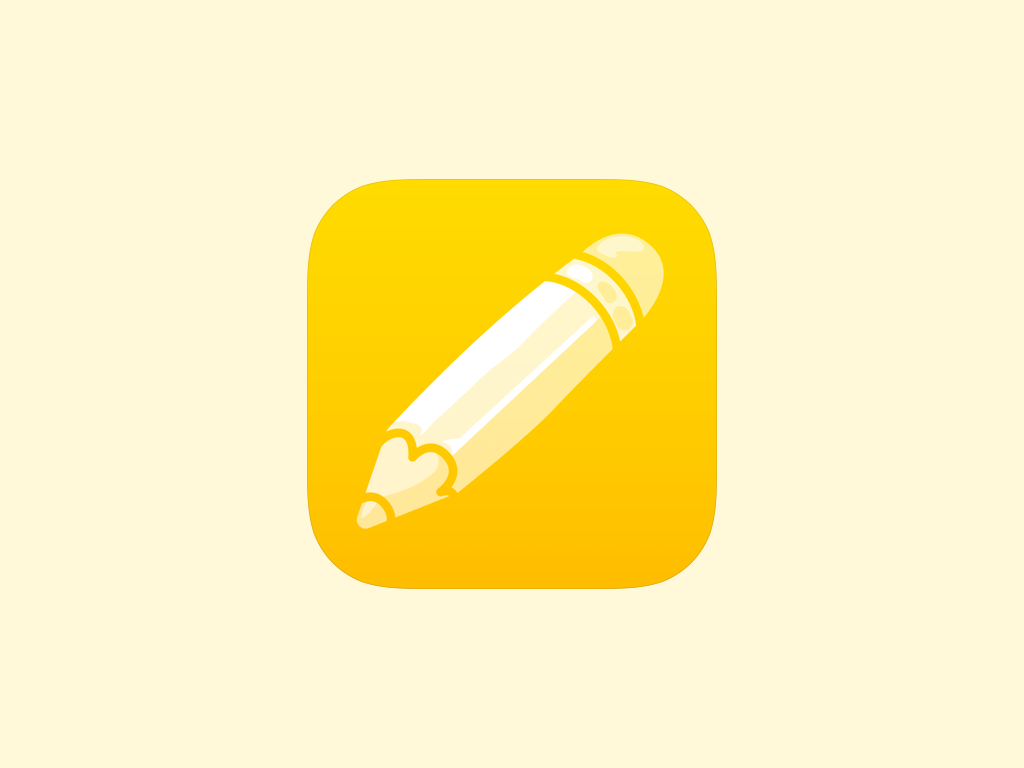
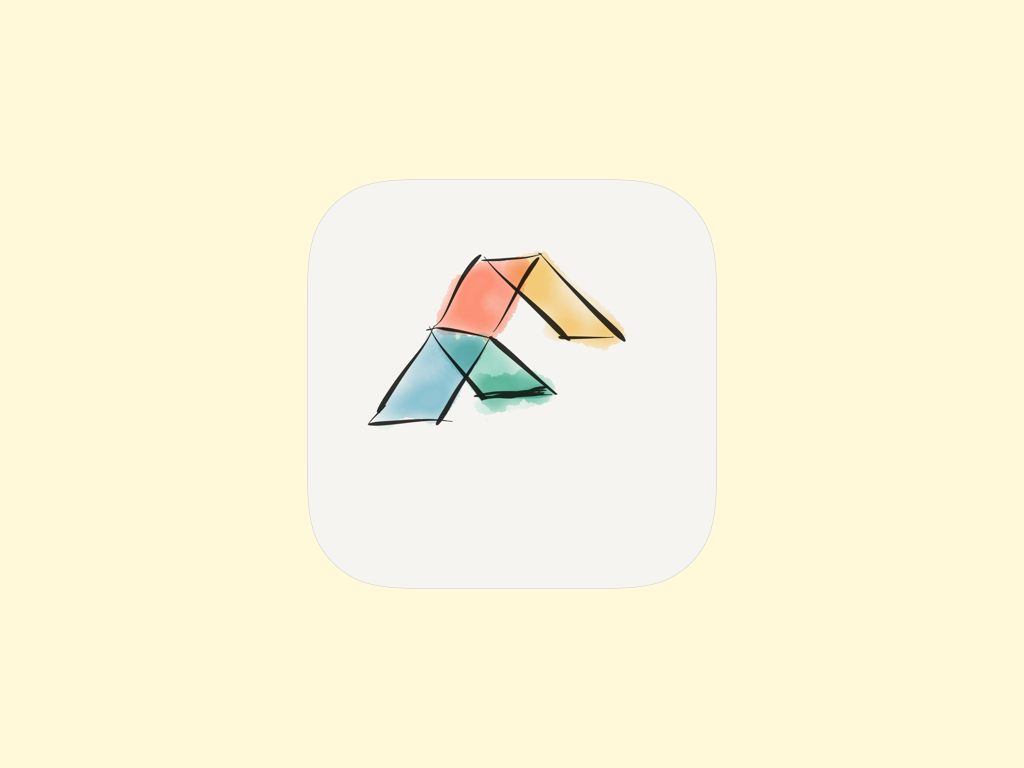
Push to app store

Changed region(s): [[0.2812, 0.2188, 0.7188, 0.7812]]

diff --git a/Package.swift b/Package.swift
@@ -16,9 +16,11 @@ let package = Package(
         .iOSApplication(
             name: "GemText Approach 2",
             targets: ["AppModule"],
+            bundleIdentifier: "com.uxuios.gemtext-testingonly",
+            teamIdentifier: "2HC7W7J69T",
             displayVersion: "1.0",
             bundleVersion: "1",
-            appIcon: .placeholder(icon: .pencil),
+            appIcon: .asset("AppIcon"),
             accentColor: .presetColor(.yellow),
             supportedDeviceFamilies: [
                 .pad,
@@ -29,7 +31,8 @@ let package = Package(
                 .landscapeRight,
                 .landscapeLeft,
                 .portraitUpsideDown(.when(deviceFamilies: [.pad]))
-            ]
+            ],
+            appCategory: .productivity
         )
     ],
     targets: [
